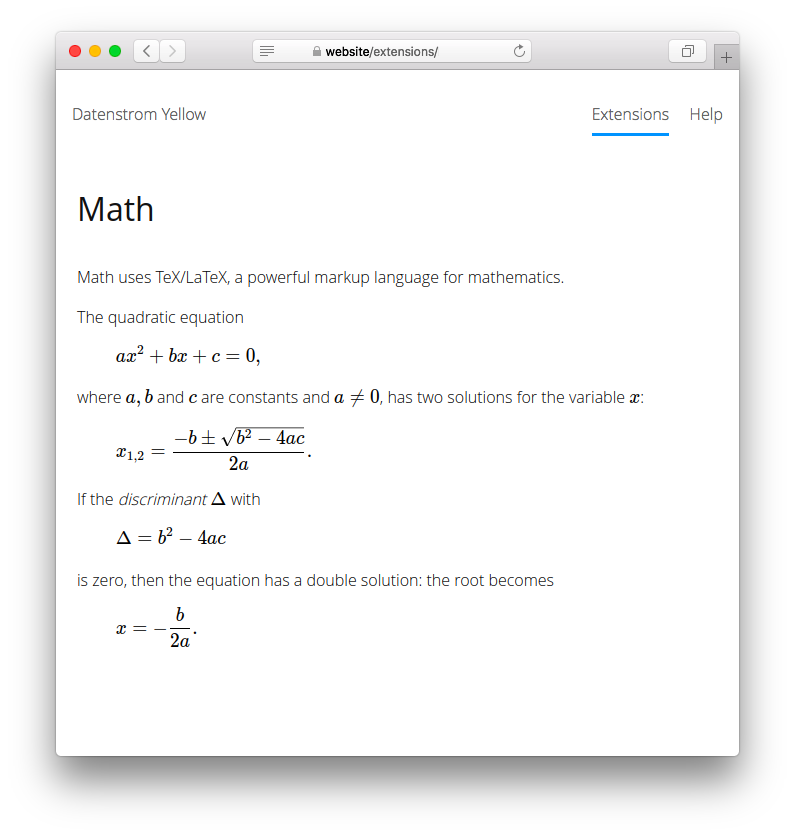
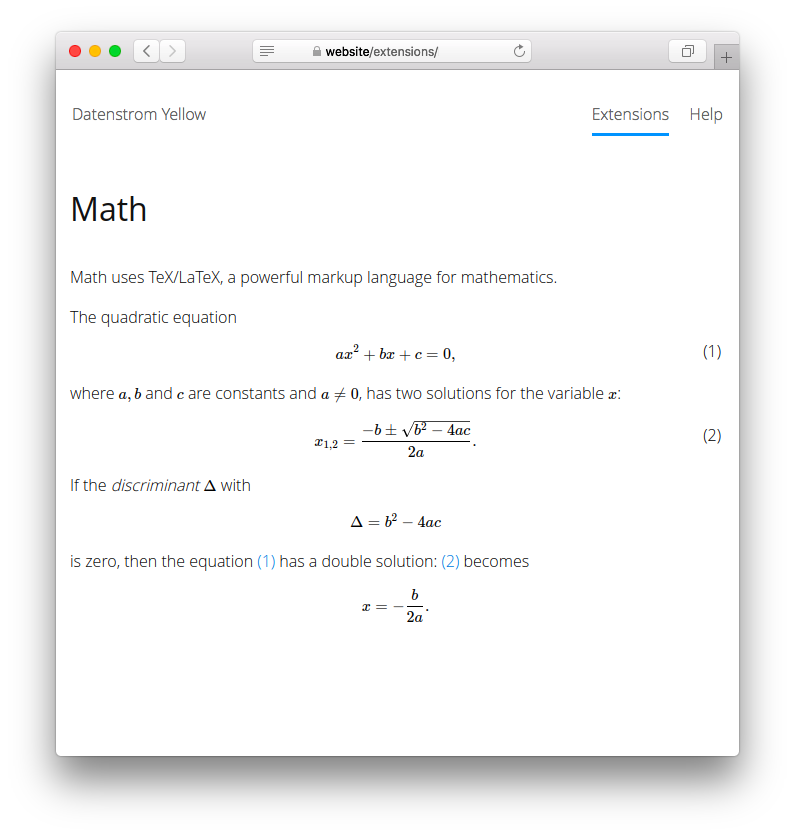
Extension refactored (syntax, cross-reference, HTML entities, CSS)

diff --git a/math.css b/math.css
@@ -1,0 +1,43 @@
+/* Math extension, https://github.com/GiovanniSalmeri/yellow-math */
+
+:root {
+    --math-left-align: 0; /* 0 or 1 */
+    --math-label-left-align: 0; /* 0 or 1 */
+    --math-font-size: 1em;
+    --math-label-left-delimiter: "(";
+    --math-label-right-delimiter: ")";
+}
+span.katex {
+    font-size: var(--math-font-size);
+}
+div.math-display, span.math-display { 
+    position: relative;
+}
+div.math-display span.math-label {
+    position: absolute;
+    right: var(--math-label-left-align);
+    top: calc(50% - 1em);
+}
+div.math-display:target::before, span.math-display:target::before {
+    content: "";
+    position: absolute;
+    top: -0.5em;
+    left: -0.5em;
+    width: calc(100% + 1em);
+    height: calc(100% + 1em);
+    background-color: #FFFFAA;
+    border-radius: 3px;
+    z-index: -1;
+    animation: highlight 1s ease-in 1s forwards;
+}
+@keyframes highlight {
+    to {
+        background-color: inherit;
+    }
+}
+div.math-display span.math-label::before, span.math-display span.math-label::before, a.math-label::before {
+    content: var(--math-label-left-delimiter);
+}
+div.math-display span.math-label::after, span.math-display span.math-label::after, a.math-label::after {
+    content: var(--math-label-right-delimiter);
+}

diff --git a/math.php b/math.php
@@ -2,7 +2,7 @@
 // Math extension, https://github.com/GiovanniSalmeri/yellow-math
 
 class YellowMath {
-    const VERSION = "0.9.2";
+    const VERSION = "0.9.3";
     public $yellow;         // access to API
 
     // Handle initialisation
@@ -14,10 +14,42 @@ class YellowMath {
     public function onParseContentElement($page, $name, $text, $attributes, $type) {
         $output = null;
         if ($name=="math" && ($type=="block" || $type=="inline" || $type=="code")) {
-            list($expression) = $type=="code" ? [ $text ] : $this->yellow->toolbox->getTextArguments($text);
-            $expression = strtr($expression, [ "%%"=>"%", "%|"=>"]" ]);
-            $tag = $type=="inline" ? "span" : "div";
-            $output = "<$tag class=\"math\">".htmlspecialchars($expression)."</$tag>";
+            $expression = $text;
+            if ($type=="code") {
+                $label = preg_match('/(?:^|\s)#(\S+)/', $attributes, $matches) ? $matches[1] : null;
+            } else {
+                $expression = html_entity_decode($expression, ENT_HTML5);
+            }
+            if ($type=="inline") {
+                $output = "<span class=\"math\">".htmlspecialchars($expression)."</span>";
+            } else {
+                $output = "<div class=\"math\">\n".htmlspecialchars($expression)."\n</div>\n";
+                if (isset($label)) {
+                    $page->mathLabels = true;
+                    $output = "<div class=\"math-display\" id=\"".htmlspecialchars($label)."\">\n<span class=\"math-label\">[##$label]</span>\n".$output."\n</div>\n";
+                }
+            }
+        }
+        return $output;
+    }
+
+    // Handle page content in HTML format
+    public function onParseContentHtml($page, $text) {
+        $output = null;
+        if (!empty($page->mathLabels)) {
+            $ids = [];
+            $output = preg_replace_callback('/\[##(\S+?)\]/', function($m) use (&$ids) {
+                static $currentId = 0;
+                if (!isset($ids[$m[1]])) $ids[$m[1]] = ++$currentId;
+                return $ids[$m[1]];
+            }, $text);
+            $output = preg_replace_callback('/\[#(\S+?)\]/', function($m) use ($ids) {
+                if (isset($ids[$m[1]])) {
+                    return "<a class=\"math-label\" href=\"#".htmlspecialchars($m[1])."\">{$ids[$m[1]]}</a>";
+                } else {
+                    return $m[0];
+                }
+            }, $output);
         }
         return $output;
     }
@@ -28,6 +60,7 @@ class YellowMath {
         if ($name=="header") {
             $assetLocation = $this->yellow->system->get("coreServerBase").$this->yellow->system->get("coreAssetLocation");
             $output .= "<link rel=\"stylesheet\" type=\"text/css\" media=\"all\" href=\"{$assetLocation}math-katex.min.css\" />\n";
+            $output .= "<link rel=\"stylesheet\" type=\"text/css\" media=\"all\" href=\"{$assetLocation}math.css\" />\n";
             $output .= "<script type=\"text/javascript\" defer=\"defer\" src=\"{$assetLocation}math-katex.min.js\"></script>\n";
             $output .= "<script type=\"text/javascript\" defer=\"defer\" src=\"{$assetLocation}math.js\"></script>\n";
         }

diff --git a/README.md b/README.md
@@ -1,4 +1,4 @@
-# Math 0.9.2
+# Math 0.9.3
 
 Mathematical expressions with TeX/LaTeX.
 
@@ -10,19 +10,65 @@ Mathematical expressions with TeX/LaTeX.
 
 ## How to show a mathematical expression
 
-With this extension you can write mathematical expressions with Tex/LaTeX. [TeX/LaTeX](https://en.wikibooks.org/wiki/LaTeX/Mathematics) is a rich and specialised system for writing mathematics. [KaTeX](https://katex.org/docs/supported.html) is used for rendering the expressions.
+With this extension you can write mathematical expressions with Tex/LaTeX. [TeX/LaTeX](https://en.wikibooks.org/wiki/LaTeX/Mathematics) is a rich and specialised system for writing mathematics. [KaTeX](https://katex.org/) is used for rendering the expressions.
 
-The first option is to write a mathematical expression with a shortcut. Create a `[math]` shortcut. Wrap the whole expression in quotes if there are spaces or quotes. Inside the expression use `%|` instead of `]`, and `""` instead of `"`.
+The first option is to write a mathematical expression with a shortcut. Create a `[math]` shortcut. Right brackets `]` are not allowed inside a shortcut: use instead `\rbrack`, or `&rbrack;` when delimiting an optional argument.
 
 The second option is to write a mathematical expression with a code block. Wrap the whole expression in `` ``` `` and add the identifier `math`.
 
+## How to cross-refer to a mathematical expression
+
+Write the expression with a code block and add after the identifier a label prefixed by `#` and wrapped in braces `{}`. The expression will be automatically numbered.
+
+To refer to an expression, use the label prefixed by `#` and wrapped in brackets `[]`.
+
+When using this method, avoid LaTeX's automatic numbering (e.g. use `gather*`, `align*`, `alignat*` instead of `gather`, `align`, `alignat`; `equation*` can be simply omitted).
+
 ## Examples
 
-An expression with a shortcut:
+An expression using a shortcut:
 
-    [math x=\frac{-b\pm\sqrt{b^2-4ac}}{2a}]
+    [math \pi = 3.1415926]
+    [math \Delta = b^2 - 4ac]
+    [math \sqrt[3&rbrack;{27} = 3]
 
-An expression with a code block:
+An expression using a code block:
+
+    ``` math
+    ax^2 + bx + c = 0
+    ```
+
+    ``` math
+    x_{1,2} = \frac{-b \pm \sqrt{b^2-4ac}}{2a}
+    ```
+
+An expression using a code block, numbered:
+
+    ``` math {#quad}
+    ax^2 + bx + c = 0
+    ```
+
+    ``` math {#solutions}
+    x_{1,2} = \frac{-b \pm \sqrt{b^2-4ac}}{2a}
+    ```
+
+A reference to an expression:
+
+    The solutions of the quadratic equation [#quad] are given by [#solutions].
+
+More examples:
+
+    [math \mathfrak{A}_{\alpha+\beta}^{\gamma+\delta}]
+
+    [math \int_0^1\sin x\,dx]
+
+    ``` math
+    \begin{align*}
+    \sum_{k=1}^5(k^2+2) & = (1^2+2)+(2^2+2)+(3^2+2)+(4^2+2)+(5^2+2)\\
+    & = 3+6+11+18+27\\
+    & = 65.
+    \end{align*}
+    ```
 
     ``` math
     \Re{z} =\frac{n\pi \dfrac{\theta +\psi}{2}}{
@@ -30,9 +76,38 @@ An expression with a code block:
     \log \left\lvert\dfrac{B}{A}\right\rvert\right)^2}.
     ```
 
+    [math 2^k-\binom{k}{1}2^{k-1}+\binom{k}{2}2^{k-2}]
+
+    ``` math
+    \cfrac{1}{\sqrt{2}+
+    \cfrac{1}{\sqrt{2}+
+    \cfrac{1}{\sqrt{2}+\dotsb
+    }}}
+    ```
+
+    [math \lim_{x \to +\infty}, \inf_{x > s} \text{ and } \sup_K]
+
+    [math \sum_{k=1}^n k^2 = \frac{1}{2} n (n+1).]
+
+    [math \int_0^4 x^2+2x-\frac{1}{2}x\,dx]
+
+    ``` math
+    \int\limits_{x^2 + y^2 \leq R^2} f(x,y)\,dx\,dy
+    = \int_{\theta=0}^{2\pi} \int_{r=0}^R
+    f(r\cos\theta,r\sin\theta) r\,dr\,d\theta
+    ```
+
+    ``` math
+    \left(\begin{matrix}
+    a & b & c \\
+    d & e & f \\
+    g & h & i
+    \end{matrix}\right)
+    ```
+
 ## Acknowledgements
 
-The extension includes [KaTeX 0.16.10](https://github.com/KaTeX/KaTeX) by Emily Eisenberg, Sophie Alpert and other. Thank you for the good work.
+The extension includes [KaTeX 0.16.10](https://github.com/KaTeX/KaTeX) by Emily Eisenberg, Sophie Alpert and other. Thank you for the good work. Most examples come from [Writing Mathematics in LaTeX by Example](https://euclid.colorado.edu/~hilljb/latex/intro.to.latex.pdf) by Jason B. Hill. Thank you for the helpful tutorial.
 
 ## Developer
 
